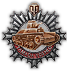
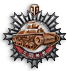
0.8.11 support

diff --git a/Sources/WotDossier/Controls/AchievementsCompareStatisticView.xaml b/Sources/WotDossier/Controls/AchievementsCompareStatisticView.xaml
@@ -20,12 +20,12 @@
                         <controls:MedalTooltip Header="{x:Static resources:Resources.Medal_Sniper}" Text="{x:Static resources:Resources.Tooltip_BattleHeroAchievements_Sniper}" />
                     </ToolTipService.ToolTip>
                 </controls:AchievementCompareRow>
-                <controls:AchievementCompareRow FirstValue="{Binding First.Sniper2}" SecondValue="{Binding Second.Sniper2}" AchievementIconSource="../Resources/Images/Medals/Sniper.png">
+                <controls:AchievementCompareRow FirstValue="{Binding First.Sniper2}" SecondValue="{Binding Second.Sniper2}" AchievementIconSource="../Resources/Images/Medals/Sniper2.png">
                     <ToolTipService.ToolTip>
                         <controls:MedalTooltip Header="{x:Static resources:Resources.Medal_Sniper2}" Text="{x:Static resources:Resources.Tooltip_BattleHeroAchievements_Sniper2}" />
                     </ToolTipService.ToolTip>
                 </controls:AchievementCompareRow>
-                <controls:AchievementCompareRow FirstValue="{Binding First.MainGun}" SecondValue="{Binding Second.MainGun}" AchievementIconSource="../Resources/Images/Medals/Sniper.png">
+                <controls:AchievementCompareRow FirstValue="{Binding First.MainGun}" SecondValue="{Binding Second.MainGun}" AchievementIconSource="../Resources/Images/Medals/maingun.png">
                     <ToolTipService.ToolTip>
                         <controls:MedalTooltip Header="{x:Static resources:Resources.Medal_MainGun}" Text="{x:Static resources:Resources.Tooltip_BattleHeroAchievements_MainGun}" />
                     </ToolTipService.ToolTip>
@@ -168,6 +168,11 @@
                         <controls:MedalTooltip Header="{x:Static resources:Resources.Medal_Billotte}" Text="{x:Static resources:Resources.Tooltip_EpicAchievements_Billotte}" />
                     </ToolTipService.ToolTip>
                 </controls:AchievementCompareRow>
+                <controls:AchievementCompareRow FirstValue="{Binding First.Ranger}" SecondValue="{Binding Second.Ranger}" AchievementIconSource="../Resources/Images/Medals/Jager.png">
+                    <ToolTipService.ToolTip>
+                        <controls:MedalTooltip Header="{x:Static resources:Resources.Medal_Ranger}" Text="{x:Static resources:Resources.Tooltip_SpecialAchievements_Ranger}" />
+                    </ToolTipService.ToolTip>
+                </controls:AchievementCompareRow>
                 <!--Special Achievements-->
                 <TextBlock HorizontalAlignment="Center" Text="{x:Static resources:Resources.Label_Achievements_Special}" FontSize="17" FontFamily="Arial" Foreground="White" Margin="0,40,0,20"></TextBlock>
                 <controls:AchievementCompareRow FirstValue="{Binding First.Survivor}" SecondValue="{Binding Second.Survivor}" AchievementIconSource="../Resources/Images/Medals/Diehard.png">
@@ -233,11 +238,6 @@
                 <!--Step Achievements-->
                 <!--Commemorative Achievements-->
                 <TextBlock HorizontalAlignment="Center" Text="{x:Static resources:Resources.Label_Achievements_CommemorativeAchievements}" FontSize="17" FontFamily="Arial" Foreground="White" Margin="0,40,0,20"></TextBlock>
-                <controls:AchievementCompareRow FirstValue="{Binding First.Ranger}" SecondValue="{Binding Second.Ranger}" AchievementIconSource="../Resources/Images/Medals/Jager.png">
-                    <ToolTipService.ToolTip>
-                        <controls:MedalTooltip Header="{x:Static resources:Resources.Medal_Ranger}" Text="{x:Static resources:Resources.Tooltip_SpecialAchievements_Ranger}" />
-                    </ToolTipService.ToolTip>
-                </controls:AchievementCompareRow>
                 <controls:AchievementCompareRow FirstValue="{Binding First.CoolHeaded}" SecondValue="{Binding Second.CoolHeaded}" AchievementIconSource="../Resources/Images/Medals/Imperturbable.png">
                     <ToolTipService.ToolTip>
                         <controls:MedalTooltip Header="{x:Static resources:Resources.Medal_CoolHeaded}" Text="{x:Static resources:Resources.Tooltip_CommemorativeAchievements_CoolHeaded}" />

diff --git a/Sources/WotDossier/Controls/Achievements.xaml b/Sources/WotDossier/Controls/Achievements.xaml
@@ -21,12 +21,12 @@
                         <controls:MedalTooltip Header="{x:Static resources:Resources.Medal_Sniper}" Text="{x:Static resources:Resources.Tooltip_BattleHeroAchievements_Sniper}" />
                     </ToolTipService.ToolTip>
                 </controls:MedalAchievement>
-                <controls:MedalAchievement Value="{Binding Sniper2}" Delta="{Binding Sniper2Delta}" Source="../Resources/Images/Medals/Sniper.png">
+                <controls:MedalAchievement Value="{Binding Sniper2}" Delta="{Binding Sniper2Delta}" Source="../Resources/Images/Medals/Sniper2.png">
                     <ToolTipService.ToolTip>
                         <controls:MedalTooltip Header="{x:Static resources:Resources.Medal_Sniper2}" Text="{x:Static resources:Resources.Tooltip_BattleHeroAchievements_Sniper2}" />
                     </ToolTipService.ToolTip>
                 </controls:MedalAchievement>
-                <controls:MedalAchievement Value="{Binding MainGun}" Delta="{Binding MainGunDelta}" Source="../Resources/Images/Medals/Sniper.png">
+                <controls:MedalAchievement Value="{Binding MainGun}" Delta="{Binding MainGunDelta}" Source="../Resources/Images/Medals/maingun.png">
                     <ToolTipService.ToolTip>
                         <controls:MedalTooltip Header="{x:Static resources:Resources.Medal_MainGun}" Text="{x:Static resources:Resources.Tooltip_BattleHeroAchievements_MainGun}" />
                     </ToolTipService.ToolTip>

diff --git a/Sources/WotDossier/Styles/DataGridHeaderTemplates.xaml b/Sources/WotDossier/Styles/DataGridHeaderTemplates.xaml
@@ -639,7 +639,7 @@
     
     <DataTemplate x:Key="Sniper2ColumnHeaderTemplate">
         <StackPanel Orientation="Vertical">
-            <Image Source="../Resources/Images/Medals/Sniper.png" Height="71" Width="67">
+            <Image Source="../Resources/Images/Medals/Sniper2.png" Height="71" Width="67">
                 <ToolTipService.ToolTip>
                     <ToolTip>
                         <controls:MedalTooltip Header="{x:Static resources:Resources.Medal_Sniper2}" Text="{x:Static resources:Resources.Tooltip_BattleHeroAchievements_Sniper2}"></controls:MedalTooltip>
@@ -652,7 +652,7 @@
     
     <DataTemplate x:Key="MainGunColumnHeaderTemplate">
         <StackPanel Orientation="Vertical">
-            <Image Source="../Resources/Images/Medals/Sniper.png" Height="71" Width="67">
+            <Image Source="../Resources/Images/Medals/maingun.png" Height="71" Width="67">
                 <ToolTipService.ToolTip>
                     <ToolTip>
                         <controls:MedalTooltip Header="{x:Static resources:Resources.Medal_MainGun}" Text="{x:Static resources:Resources.Tooltip_BattleHeroAchievements_MainGun}"></controls:MedalTooltip>

diff --git a/Sources/WotDossier.Dal/Resources/Resources.Designer.cs b/Sources/WotDossier.Dal/Resources/Resources.Designer.cs
@@ -412,11 +412,38 @@ namespace WotDossier.Dal.Resources {
         }
         
         /// <summary>
+        ///   Looks up a localized string similar to Windstorm.
+        /// </summary>
+        internal static string Map_84_winter {
+            get {
+                return ResourceManager.GetString("Map_84_winter", resourceCulture);
+            }
+        }
+        
+        /// <summary>
         ///   Looks up a localized string similar to Severogorsk.
         /// </summary>
         internal static string Map_85_winter {
             get {
                 return ResourceManager.GetString("Map_85_winter", resourceCulture);
+            }
+        }
+        
+        /// <summary>
+        ///   Looks up a localized string similar to Winter Himmelsdorf.
+        /// </summary>
+        internal static string Map_86_himmelsdorf_winter {
+            get {
+                return ResourceManager.GetString("Map_86_himmelsdorf_winter", resourceCulture);
+            }
+        }
+        
+        /// <summary>
+        ///   Looks up a localized string similar to Ruinberg on Fire.
+        /// </summary>
+        internal static string Map_87_ruinberg_on_fire {
+            get {
+                return ResourceManager.GetString("Map_87_ruinberg_on_fire", resourceCulture);
             }
         }
     }
